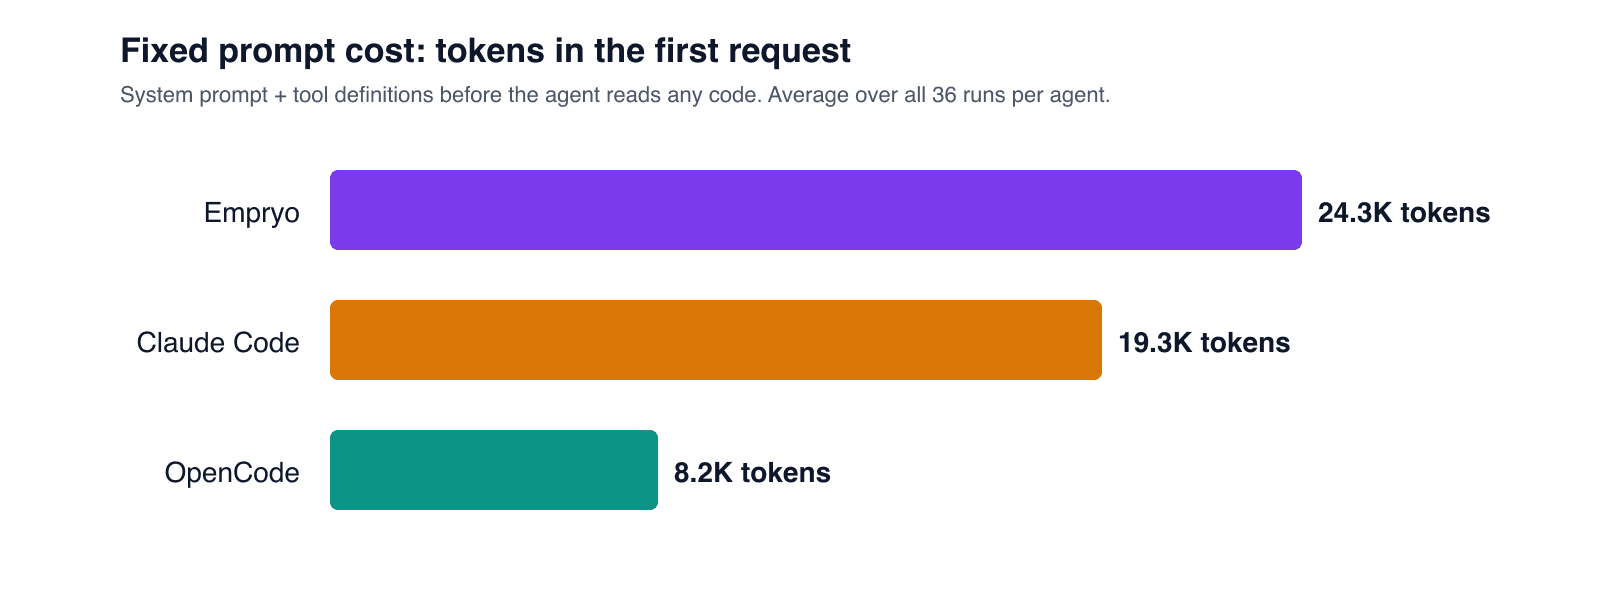
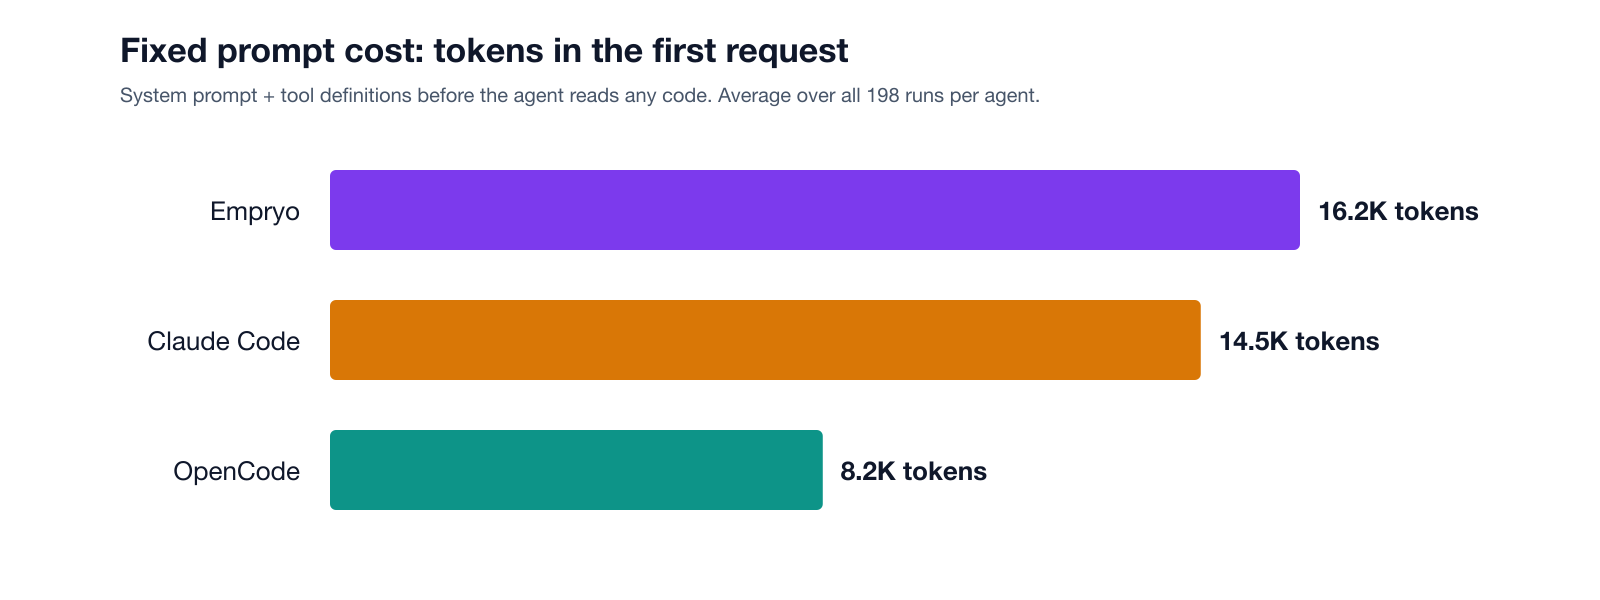
docs(blog): update agent benchmark post to 2026-11-04 run
- new results, charts and date from the re-run suite

diff --git a/apps/ui/src/content/blog/2026-11-04-coding-agent-token-benchmark.md b/apps/ui/src/content/blog/2026-11-04-coding-agent-token-benchmark.md
@@ -1,17 +1,17 @@
 ---
 id: "blog-coding-agent-token-benchmark"
 slug: "coding-agent-token-benchmark"
-date: "2026-10-14"
+date: "2026-11-04"
 title: "Coding Agent Token Benchmark: Empryo vs Claude Code vs OpenCode"
-summary: "We ran Empryo, Claude Code and OpenCode on the same three real bug fixes with six models, 594 runs and $114 of inference, and counted every token at the LLM Gateway proxy. OpenCode used about half the tokens of the other two. Empryo solved the most runs and beat Claude Code on DeepSeek and GLM, but used 6% more tokens overall and cost the most. Here is the coding agent benchmark, why the numbers come out this way, and how to reproduce it."
+summary: "We ran Empryo, Claude Code and OpenCode on the same three real bug fixes with six models, 594 runs and $105 of inference, and counted every token at the LLM Gateway proxy. OpenCode used the fewest tokens with every model and solved 197 of 198 runs. Claude Code and Empryo cost about the same, but Empryo used 69% more tokens, almost all of them on the cheap models. Here is the coding agent benchmark, why the numbers come out this way, and how to reproduce it."
 categories: ["Guides", "Engineering"]
 faqs:
   - question: "Which coding agent uses the fewest tokens?"
-    answer: "In this benchmark, OpenCode. Across 594 runs on three real bug fixes it used 46.5M tokens, against 90.6M for Claude Code and 96.2M for Empryo, and it used the fewest tokens with every one of the six models. Solve rates were close: Empryo 195 of 198 runs, OpenCode 194, Claude Code 189."
+    answer: "In this benchmark, OpenCode. Across 594 runs on three real bug fixes it used 45.1M tokens, against 102.0M for Claude Code and 172.7M for Empryo, and it used the fewest tokens with every one of the six models. It also solved the most runs: 197 of 198, against 195 for Claude Code and 188 for Empryo."
   - question: "Why do coding agents use such different amounts of tokens for the same task?"
-    answer: "Mostly fixed prompt overhead. Every request resends the system prompt and the tool definitions. Before reading any code, Empryo's first request averaged 24.3K tokens, Claude Code's 19.3K and OpenCode's 8.2K. With 14 to 16 requests per run, that overhead dominates the total on small tasks."
+    answer: "Fixed prompt overhead and the number of turns. Every request resends the system prompt and the tool definitions: Empryo's first request averaged 16.2K tokens, Claude Code's 14.5K and OpenCode's 8.2K. Empryo also took the most turns, 22.2 requests per run against 19.2 for Claude Code and 14.1 for OpenCode, and the gap was widest on the cheaper models."
   - question: "How were tokens counted?"
-    answer: "All three agents sent their traffic to https://api.llmgateway.io through a local proxy that forwards each request unchanged and records the usage block the gateway returned. The same code counted every agent. The computed cost of the 594 runs was $113.70; the API key was billed $114.07 in total, including smoke tests and the OG image."
+    answer: "All three agents sent their traffic to https://api.llmgateway.io through a local proxy that forwards each request unchanged and records the usage block the gateway returned. The same code counted every agent. The computed cost of the 594 runs was $104.70; the API key was billed $104.81 while the suite ran."
   - question: "Can I reproduce this coding agent benchmark?"
     answer: "Yes. The harness, task definitions, prices, raw per-request logs, patches and grading logs are in scripts/agent-benchmark in the LLM Gateway repository. You need Node 24, Bun, the three CLIs and an LLM Gateway API key."
 image:
@@ -23,7 +23,7 @@ image:
 
 Give three coding agents the same model and the same bug, and one of them will spend twice the tokens of another. The model sets the price per token. The agent decides how many tokens you buy.
 
-We wanted a number for that, so we ran a **coding agent token benchmark**: Empryo, Claude Code and OpenCode, six models, three real bug fixes, eleven runs of each, 594 runs in total and $114 of inference. Every request went through **LLM Gateway**, and every token was counted by the same code at the same place, between the agent and the gateway.
+We wanted a number for that, so we ran a **coding agent token benchmark**: Empryo, Claude Code and OpenCode, six models, three real bug fixes, eleven runs of each, 594 runs in total and $105 of inference. Every request went through **LLM Gateway**, and every token was counted by the same code at the same place, between the agent and the gateway.
 
 ## How the benchmark worked
 
@@ -35,11 +35,11 @@ We wanted a number for that, so we ran a **coding agent token benchmark**: Empry
 
 Each run started from the commit before the fix, with no git history, and got an issue-style prompt that describes the bug but not the files to change. The prompt asks for a fix, a regression test and a test run.
 
-**Grading.** After the agent exits, the fix commit's own test file replaces the agent's copy and runs. A run only counts as solved if the upstream tests pass.
+**Grading.** After the agent exits, the fix commit's own test file replaces the agent's copy and runs. A run only counts as solved if the upstream tests pass. Runs are cut off after 25 minutes.
 
 **Models.** Claude Fable 5.1, Claude Opus 5.5, GPT-6.1 Sol, GPT-6 Luna, DeepSeek V4.1 Flash and GLM 5.3 Flash, each pinned to one provider so all three agents hit the same upstream and the same prompt cache.
 
-**Agents.** Each ran headless with its defaults and a fresh home directory, so no personal instructions, memory, plugins or MCP servers were loaded:
+**Agents.** Claude Code 2.1.317, OpenCode 1.18.29 and Empryo 3.12.4-beta, each headless with its defaults and a fresh home directory, so no personal instructions, memory, plugins or MCP servers were loaded:
 
 ```bash
 claude -p "$PROMPT" --dangerously-skip-permissions --output-format json
@@ -47,65 +47,65 @@ opencode run --auto --format json --model "llmgateway/$MODEL" "$PROMPT"
 empryo --headless --json --mode auto --model "llmgateway/$MODEL" "$PROMPT"
 ```
 
-Claude Code pointed at `https://api.llmgateway.io` with every model slot, including subagents, set to the model under test. OpenCode and Empryo used their built-in LLM Gateway providers.
+Claude Code pointed at `https://api.llmgateway.io` with every model slot, including subagents, set to the model under test. OpenCode and Empryo used their built-in LLM Gateway providers. Empryo ran with its shipped defaults and experimental features off, and asked Anthropic for the same five-minute prompt cache the other two use.
 
 **Counting.** The agents report their own usage in different formats, so we did not use those numbers. Each agent's HTTPS traffic went through a local proxy that forwards requests to `api.llmgateway.io` unchanged and records the usage the gateway returned. Input tokens include cache reads and cache writes.
 
-## Results: OpenCode used half the tokens
+## Results: OpenCode used the fewest tokens and solved the most
 
 | Agent       | Solved  | Requests | Input tokens | Output tokens | Total tokens | Cost   |
 | ----------- | ------- | -------- | ------------ | ------------- | ------------ | ------ |
-| OpenCode    | 194/198 | 2,820    | 45.54M       | 0.94M         | **46.47M**   | $30.26 |
-| Claude Code | 189/198 | 3,217    | 89.22M       | 1.42M         | 90.64M       | $35.71 |
-| Empryo      | 195/198 | 2,773    | 94.89M       | 1.29M         | 96.18M       | $47.74 |
+| OpenCode    | 197/198 | 2,786    | 44.20M       | 0.94M         | **45.14M**   | $31.93 |
+| Claude Code | 195/198 | 3,801    | 100.11M      | 1.90M         | 102.01M      | $36.72 |
+| Empryo      | 188/198 | 4,404    | 170.97M      | 1.74M         | 172.71M      | $36.05 |
 
-All three agents fixed nearly every bug. Every one of the 16 misses was on the `prettyJSON()` task, the one with the most edge cases. Claude Code missed 9, five of them with GLM 5.3 Flash. Empryo missed 3 and OpenCode 4.
+With Fable, Opus and Sol, every agent solved all 33 runs. All 14 misses came from the three cheaper models. Empryo missed 10: six on the `prettyJSON()` task with DeepSeek V4.1 Flash, three with GLM 5.3 Flash and one with GPT-6 Luna. Claude Code missed 3 and OpenCode 1.
 
-OpenCode used the fewest tokens with every model, about half of what the other two used. Empryo used 6% more tokens than Claude Code overall and fewer in 90 of 198 head-to-head runs. It used more than OpenCode in 177 of 198.
+OpenCode used the fewest tokens with every model. Claude Code used 2.3 times as many in total and Empryo 3.8 times as many. Empryo used fewer tokens than Claude Code in 65 of 198 head-to-head runs, and fewer than OpenCode in 32.
 
 ![Average tokens per run by model for Empryo, Claude Code and OpenCode. OpenCode is lowest for every model.](/blog/coding-agent-token-benchmark/tokens-per-run.png)
 
 | Model               | Empryo | Claude Code | OpenCode | Empryo cost | Claude Code cost | OpenCode cost |
 | ------------------- | ------ | ----------- | -------- | ----------- | ---------------- | ------------- |
-| Claude Fable 5.1    | 336K   | 319K        | 226K     | $29.83      | $20.77           | $19.53        |
-| Claude Opus 5.5     | 243K   | 243K        | 153K     | $11.74      | $7.25            | $6.78         |
-| GPT-6.1 Sol         | 273K   | 272K        | 174K     | $4.16       | $5.57            | $2.83         |
-| GPT-6 Luna          | 801K   | 457K        | 234K     | $0.52       | $0.46            | $0.25         |
-| DeepSeek V4.1 Flash | 762K   | 864K        | 312K     | $0.63       | $0.78            | $0.36         |
-| GLM 5.3 Flash       | 500K   | 592K        | 309K     | $0.85       | $0.88            | $0.52         |
+| Claude Fable 5.1    | 261K   | 249K        | 231K     | $19.99      | $21.12           | $21.05        |
+| Claude Opus 5.5     | 200K   | 179K        | 158K     | $7.55       | $7.08            | $6.94         |
+| GPT-6.1 Sol         | 286K   | 241K        | 167K     | $3.91       | $5.59            | $2.78         |
+| GPT-6 Luna          | 1,170K | 420K        | 259K     | $0.75       | $0.51            | $0.27         |
+| DeepSeek V4.1 Flash | 651K   | 1,132K      | 239K     | $0.65       | $1.20            | $0.35         |
+| GLM 5.3 Flash       | 2,666K | 870K        | 314K     | $3.20       | $1.21            | $0.55         |
 
 Token columns are the average per run. Cost columns are the total for 33 runs: three tasks, eleven runs each.
 
-## Why the gap is so wide: fixed prompt overhead
+## On frontier models the agents were close
 
-The three agents made a similar number of requests: 14.0 per run for Empryo, 14.2 for OpenCode and 16.2 for Claude Code. Output was small for all of them, 1.3% to 2.0% of tokens. The difference is how much each request carries.
+With Fable and Opus, the three agents landed within 9% of each other on cost. Tokens spread a little wider: 13% from lowest to highest on Fable, 27% on Opus. Empryo was the cheapest agent on Fable, $19.99 against $21.12 for Claude Code, because it wrote 30% less output at $50 per million tokens. OpenCode took more turns with the Anthropic models, 14.2 requests per run on Fable against about 9.5 for the other two, but each of its requests was small enough to come out level.
 
-![Tokens in the first request: Empryo 24.3K, Claude Code 19.3K, OpenCode 8.2K](/blog/coding-agent-token-benchmark/first-request.png)
+Sol shows that tokens and cost can point in different directions. Empryo used 19% more tokens than Claude Code and cost 30% less, $3.91 against $5.59: Claude Code sent about 50% more of its prompt uncached and wrote 60% more output tokens.
 
-Before an agent reads a single file, its first request already holds the system prompt and every tool definition. Empryo sends 26 tools and averaged 24.3K tokens. Claude Code sends 20 tools and averaged 19.3K. OpenCode sends 9 or 10 tools and averaged 8.2K. Agentic loops resend that prefix on every turn, so the average request was 34.2K input tokens for Empryo, 27.7K for Claude Code and 16.2K for OpenCode.
+## Why the gap is so wide: fixed prompt overhead and turns
 
-On a bug that takes 10 to 20 turns, that fixed cost is most of the bill. Prompt caching makes it cheaper, not smaller: 90% to 92% of input tokens in this benchmark were cache reads, and you pay for every one of them.
+![Tokens in the first request: Empryo 16.2K, Claude Code 14.5K, OpenCode 8.2K](/blog/coding-agent-token-benchmark/first-request.png)
 
-## Where Empryo came out ahead
+Before an agent reads a single file, its first request already holds the system prompt and every tool definition. Empryo's first request averaged 16.2K tokens, Claude Code's 14.5K and OpenCode's 8.2K. Agentic loops resend that prefix on every turn, and the context grows as the agent reads files, so the average request was 38.8K input tokens for Empryo, 26.3K for Claude Code and 15.9K for OpenCode.
 
-Empryo solved the most runs, 195 of 198. It made fewer requests than Claude Code with four of the six models, and with the two open-weight models that was enough to win on tokens: 12% fewer than Claude Code with DeepSeek V4.1 Flash and 16% fewer with GLM 5.3 Flash. With Opus and Sol the two were level, within 1%.
+Turns multiply it. Empryo averaged 22.2 requests per run, Claude Code 19.2 and OpenCode 14.1. Output was small for everyone, 1.0% to 2.1% of tokens. Prompt caching makes the overhead cheaper, not smaller: 89% to 96% of input tokens were cache reads, and you pay for every one of them.
 
-GPT-6 Luna is where Empryo lost the most ground. It averaged 21.8 requests per run against 16.2 for Claude Code and used 75% more tokens. On the AWS Lambda task alone, its Luna runs ranged from 12 to 49 requests. Leave Luna out and Empryo used 8% fewer tokens than Claude Code across the other five models.
+## Where the cheap models changed the picture
 
-## Fewer tokens did not mean a lower bill
+The cheaper models are where the agents pulled apart, in both directions:
 
-With Opus, Empryo and Claude Code used the same number of tokens, and Empryo cost 62% more: $11.74 against $7.25. Empryo asks Anthropic for a one-hour prompt cache. A one-hour cache write costs $8 per million tokens on Opus and $20 on Fable, against $5 and $12.50 for the default five-minute cache. On runs that finish in a minute or two, the longer cache never pays for itself.
+- **GLM 5.3 Flash.** One Empryo run on the `prettyJSON()` task looped for the full 25 minutes: 346 requests and 53.4M tokens, 61% of Empryo's GLM total. Without that run Empryo still averaged 1.08M tokens per run with GLM, 24% more than Claude Code.
+- **GPT-6 Luna.** Empryo averaged 36.4 requests per run against 17.3 for Claude Code and used 2.8 times as many tokens. Its Luna runs on the AWS Lambda task ranged up to 128 requests.
+- **DeepSeek V4.1 Flash.** Here Claude Code ran long: 39.4 requests per run and four runs cut off at 25 minutes. Empryo used 42% fewer tokens and cost 46% less, but solved only 5 of its 11 `prettyJSON()` runs.
 
-It works the other way with Sol: the same token count as Claude Code, 25% cheaper. Claude Code wrote more than twice as many output tokens with Sol, at $10 per million, and sent more of its prompt uncached.
-
-Tokens tell you how much context an agent moves. The bill also depends on cache settings and on the model's price per token. Measure both.
+On a cheap model a long run costs cents, so these differences barely move the bill: Empryo's 88M tokens on GLM cost $3.20. They do move the wall clock and the solve rate.
 
 ## What this benchmark does not show
 
 - **Small, well-specified bugs.** Each fix touched one or two files. On long, exploratory tasks, an agent that makes fewer, better-targeted requests could recover its larger prompt. We did not test that here.
-- **Runs vary.** Eleven runs per combination smooth the noise, but single runs still swing. Claude Code with GLM took between 16 and 62 requests on the same `prettyJSON()` bug.
+- **Runs vary.** Eleven runs per combination smooth the noise, but single runs still swing, as the 346-request GLM run shows.
 - **Defaults only.** Every agent ran with a fresh install and its default settings. Tuned setups will differ.
-- **One day of pricing.** Costs use the pinned providers' list prices from October 14, 2026.
+- **One day of pricing.** Costs use the pinned providers' list prices from November 4, 2026.
 
 ## Reproduce it
 
@@ -114,11 +114,11 @@ The harness, task definitions, prices, per-request logs, patches and grading log
 ```bash
 export LLM_GATEWAY_API_KEY=your_key
 node scripts/agent-benchmark/setup.mjs
-node scripts/agent-benchmark/run.mjs --suite my-run --reps 11 --concurrency 8 --max-spend 120
+node scripts/agent-benchmark/run.mjs --suite my-run --reps 11 --concurrency 6 --max-spend 120
 node scripts/agent-benchmark/report.mjs my-run
 ```
 
-`setup.mjs` clones hono, installs each task's starting commit, saves the hidden tests and creates a local certificate authority for the counting proxy. `run.mjs` takes `--agents`, `--models`, `--tasks` and `--reps`, resumes a suite where it stopped and stops queuing runs at `--max-spend`. The computed cost of our 594 runs was $113.70; the API key was billed $114.07 in total, including smoke tests and the OG image.
+`setup.mjs` clones hono, installs each task's starting commit, saves the hidden tests and creates a local certificate authority for the counting proxy. `run.mjs` takes `--agents`, `--models`, `--tasks` and `--reps`, resumes a suite where it stopped and stops queuing runs at `--max-spend`. The computed cost of our 594 runs was $104.70; the API key was billed $104.81 while the suite ran.
 
 ## Measure your own agent
 
